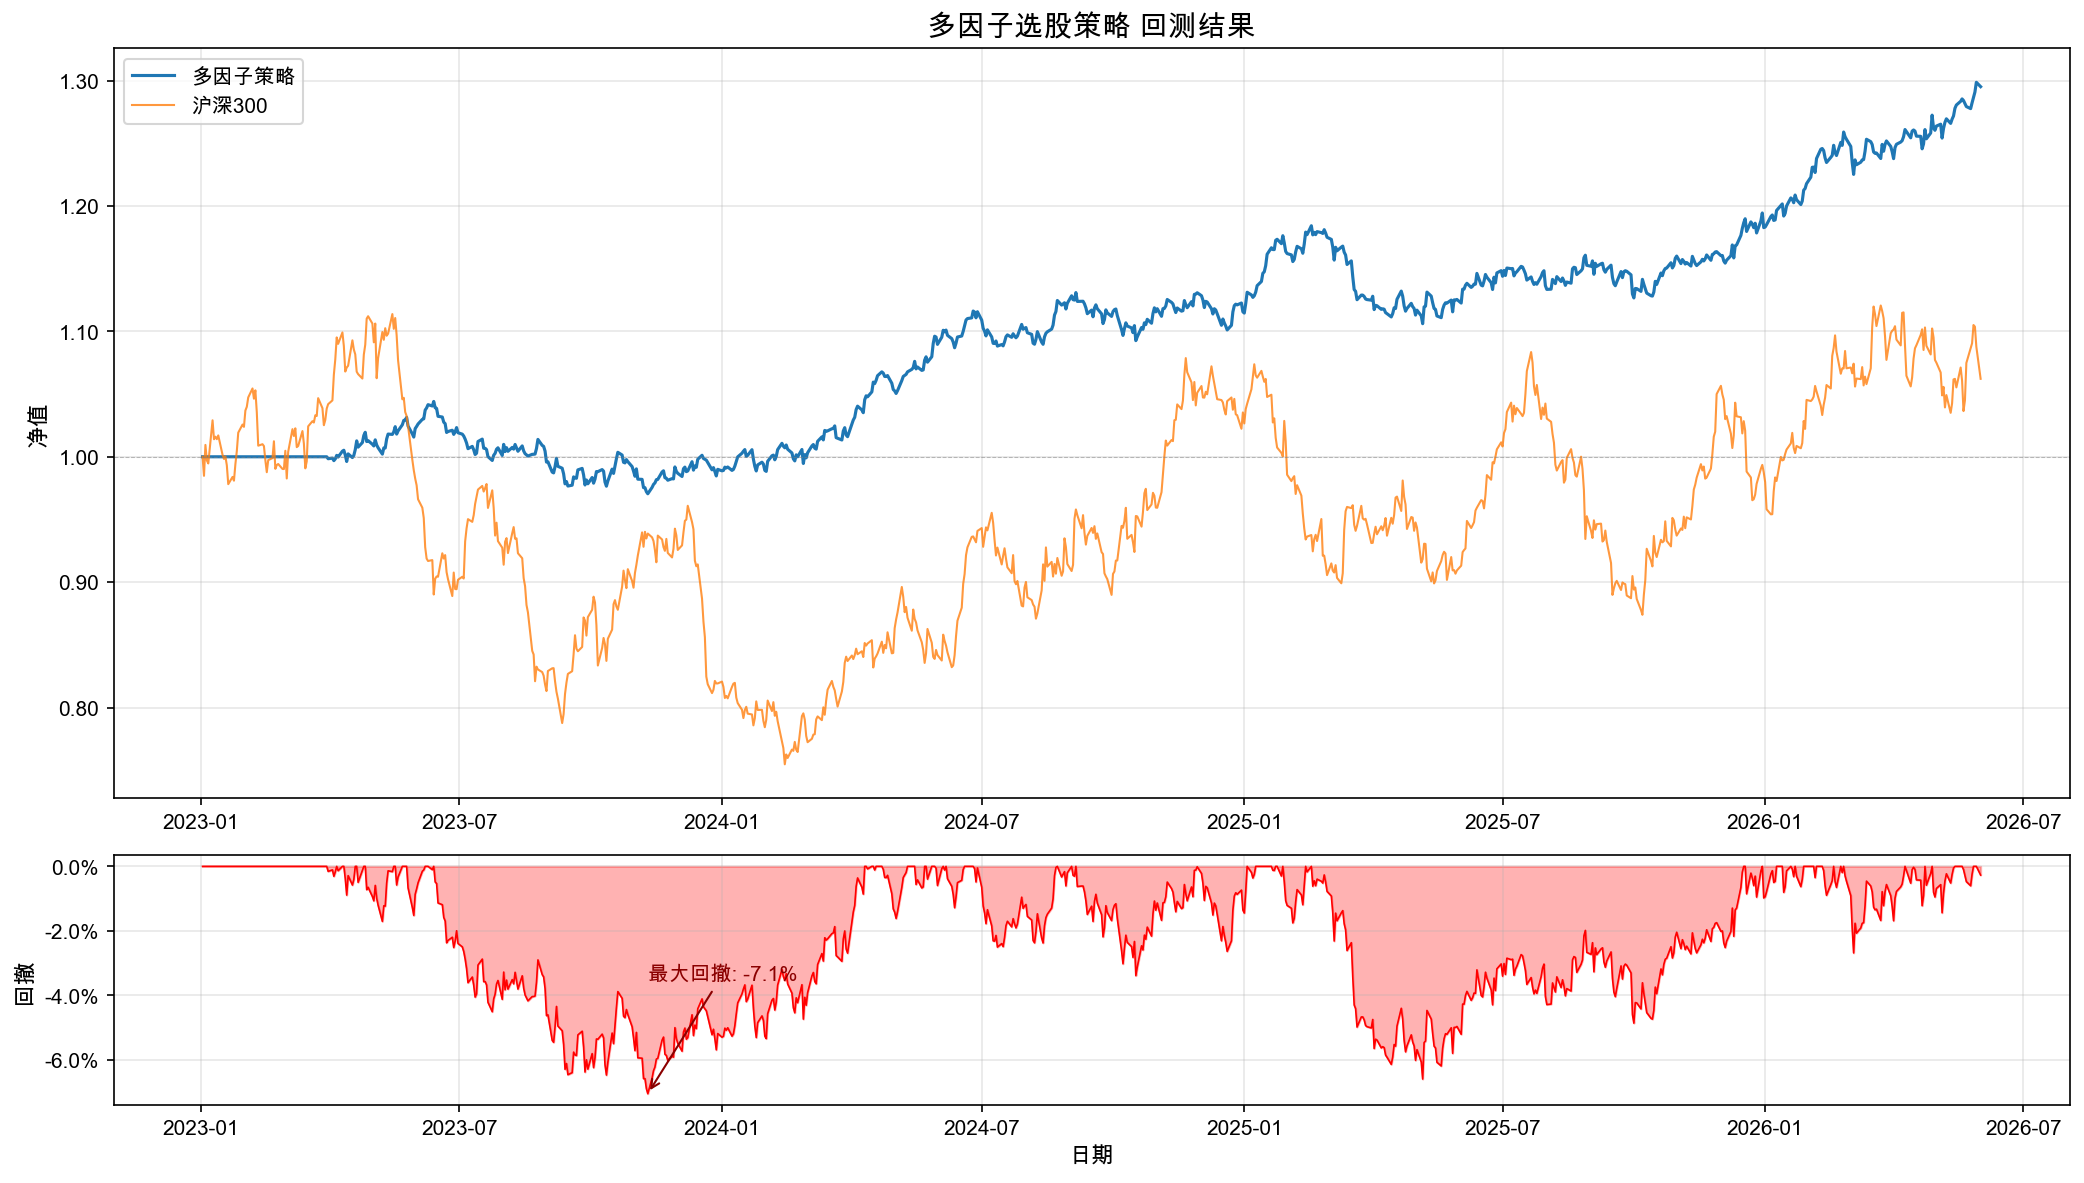
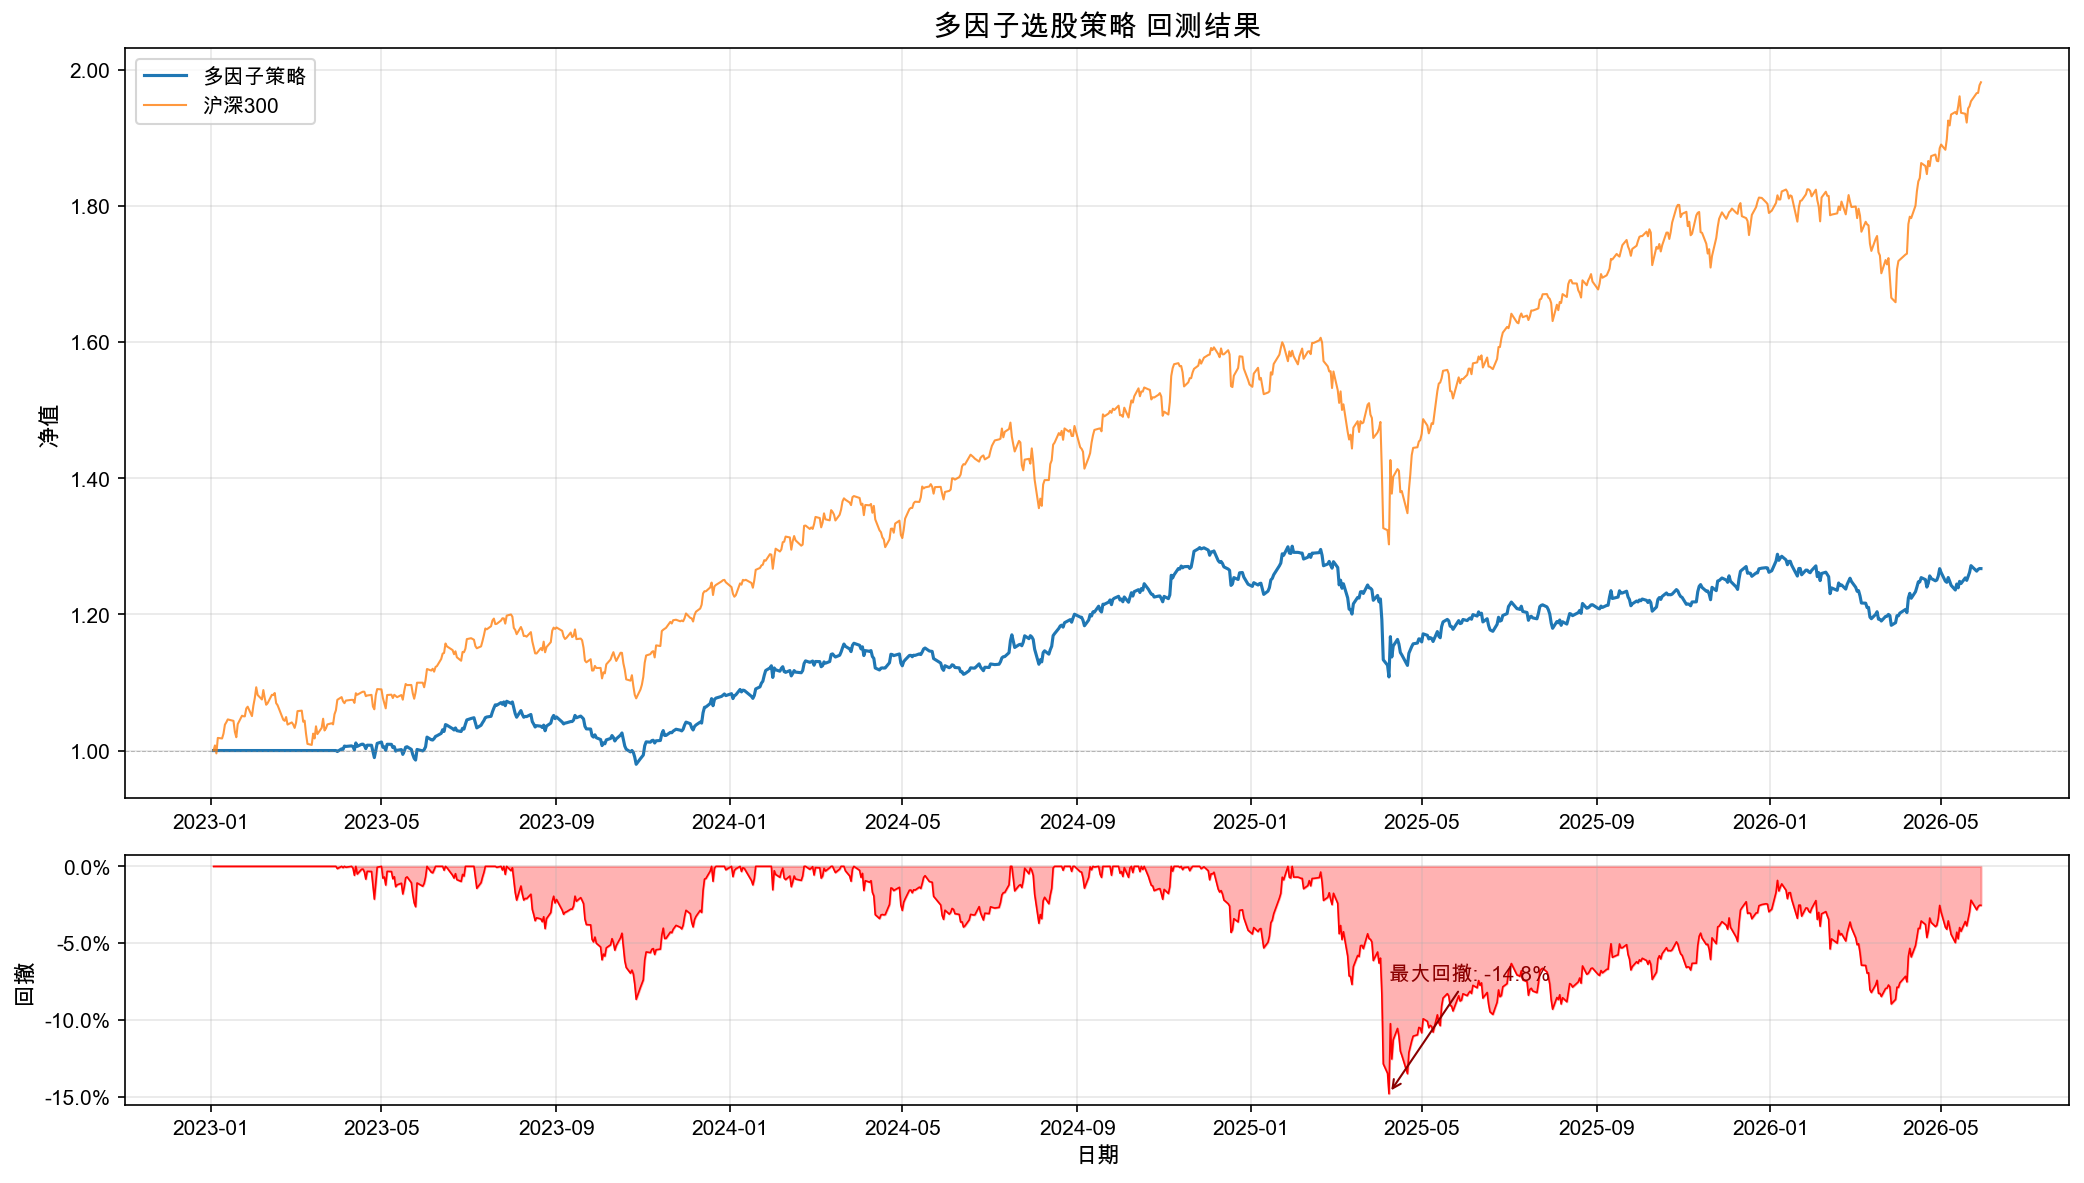
feat: 美股数据源 + 网络兼容修复

diff --git a/main.py b/main.py
@@ -2,49 +2,62 @@
 多因子选股回测 —— 主入口
 
 用法:
-    python main.py           # 真实数据回测（需要 A 股网络环境）
-    python main.py --fake    # 模拟数据（任何环境都能跑，验证逻辑）
-    python main.py --quick   # 快速模式（50只股票，验证流程）
+    python main.py           # A股真实数据（需要东方财富网络）
+    python main.py --us      # 美股真实数据（标普500，全球能用）
+    python main.py --fake    # 模拟数据（不需要网络，验证逻辑）
+    python main.py --quick   # 快速模式（50只股票）
+    可以组合：python main.py --us --quick
 """
 
 import argparse
 import time
-import traceback
 
 from data_loader import (
+    # A股
     get_stock_pool, get_all_stocks_data, get_benchmark_data,
+    # 美股
+    get_us_stock_pool, get_all_us_stocks_data, get_us_benchmark,
+    # 模拟
     generate_fake_data,
 )
 from backtest import backtest
 from analysis import calculate_stats, plot_results
 
 
-def main(quick: bool = False, fake: bool = False):
+def main(quick: bool = False, fake: bool = False, us: bool = False):
     t0 = time.time()
+    pool_size = 50 if quick else 100  # 美股100只，A股300只
+    if not us:
+        pool_size = 50 if quick else 300
 
     # ============================================================
-    # 1. 获取股票池
+    # 1. 获取数据
     # ============================================================
-    pool_size = 50 if quick else 300
-
     if fake:
-        print("[Main] 使用模拟数据模式（用于测试回测逻辑）")
-        stock_data, benchmark = generate_fake_data(
-            n_stocks=pool_size, seed=42
-        )
+        print("[Main] 模拟数据模式")
+        stock_data, benchmark = generate_fake_data(n_stocks=pool_size, seed=42)
+
+    elif us:
+        print("[Main] 美股数据模式（yfinance → 标普500）")
+        try:
+            tickers = get_us_stock_pool(top_n=pool_size)
+            stock_data = get_all_us_stocks_data(tickers)
+            benchmark = get_us_benchmark()
+        except Exception as e:
+            print(f"\n[Main] ⚠ 美股数据获取失败: {e}")
+            print("[Main] 自动切换到模拟数据...")
+            stock_data, benchmark = generate_fake_data(n_stocks=pool_size, seed=42)
+
     else:
+        print("[Main] A股数据模式（AkShare → 沪深300）")
         try:
             stocks = get_stock_pool(top_n=pool_size)
             stock_data = get_all_stocks_data(stocks)
             benchmark = get_benchmark_data()
         except Exception as e:
-            print(f"\n[Main] ⚠ 真实数据获取失败: {e}")
-            print(f"[Main] 自动切换到模拟数据模式...\n")
-            print("[Main] 提示: 如果你在北京，一般直接跑就行，AkShare 能访问东方财富。")
-            print("[Main] 如果在海外/网络受限，就用 python main.py --fake\n")
-            stock_data, benchmark = generate_fake_data(
-                n_stocks=pool_size, seed=42
-            )
+            print(f"\n[Main] ⚠ A股数据获取失败: {e}")
+            print("[Main] 自动切换到模拟数据...")
+            stock_data, benchmark = generate_fake_data(n_stocks=pool_size, seed=42)
 
     if len(stock_data) < 20:
         print("[Error] 有效股票数不足。")
@@ -53,18 +66,17 @@ def main(quick: bool = False, fake: bool = False):
     # ============================================================
     # 2. 运行回测
     # ============================================================
-    print(f"\n[Main] 开始回测...")
+    print(f"\n[Main] 开始回测（{len(stock_data)} 只股票）...")
     result = backtest(stock_data, benchmark)
     nav = result["nav"]
     trades = result["trades"]
 
     # ============================================================
-    # 3. 计算绩效 & 可视化
+    # 3. 绩效 & 可视化
     # ============================================================
     stats = calculate_stats(nav)
     plot_results(nav, stats, save_path="backtest_result.png")
 
-    # 打印最近几期调仓记录
     if len(trades) > 0:
         print(f"\n{'='*70}")
         print(f"  最近 5 期调仓记录")
@@ -77,19 +89,21 @@ def main(quick: bool = False, fake: bool = False):
     print(f"\n[Total] 总耗时: {elapsed:.1f}s")
 
     # ============================================================
-    # 4. 保存结果
+    # 4. 保存
     # ============================================================
     nav.to_csv("backtest_nav.csv")
     trades.to_csv("backtest_trades.csv", index=False)
-    print("[Total] 净值数据已保存至 backtest_nav.csv")
-    print("[Total] 调仓记录已保存至 backtest_trades.csv")
+    print("[Total] 净值 → backtest_nav.csv")
+    print("[Total] 调仓 → backtest_trades.csv")
 
 
 if __name__ == "__main__":
     parser = argparse.ArgumentParser(description="多因子选股回测系统")
     parser.add_argument("--quick", action="store_true",
-                        help="快速模式：只用50只股票验证流程")
+                        help="快速模式：减少股票数量，跑得快")
     parser.add_argument("--fake", action="store_true",
-                        help="使用模拟数据（不需要网络，只验证逻辑）")
+                        help="模拟数据（不联网也能跑）")
+    parser.add_argument("--us", action="store_true",
+                        help="美股模式（标普500，yfinance数据源）")
     args = parser.parse_args()
-    main(quick=args.quick, fake=args.fake)
+    main(quick=args.quick, fake=args.fake, us=args.us)

diff --git a/data_loader.py b/data_loader.py
@@ -269,3 +269,143 @@ def generate_fake_data(
 
     print(f"[FakeData] 生成完成，{len(stock_data)} 只股票，基准 {len(benchmark)} 行")
     return stock_data, benchmark
+
+
+# ============================================================
+# 美股数据（yfinance，全球都能用）
+# ============================================================
+
+try:
+    import yfinance as yf
+    HAS_YFINANCE = True
+except ImportError:
+    HAS_YFINANCE = False
+
+
+def get_us_stock_pool(top_n: int = 100) -> list[str]:
+    """
+    获取美股股票池：标普500成分股，按市值取前 top_n。
+    """
+    print(f"[Data] 获取标普500成分股（取前 {top_n}）...")
+    try:
+        # 从 Wikipedia 获取标普500成分股
+        sp500 = pd.read_html("https://en.wikipedia.org/wiki/List_of_S%26P_500_companies")[0]
+        tickers = sp500["Symbol"].tolist()
+        # 取前 top_n
+        tickers = tickers[:top_n]
+        print(f"[Data] 美股股票池: {len(tickers)} 只")
+        return tickers
+    except Exception:
+        # 降级：手动指定一些大市值美股
+        fallback = [
+            "AAPL", "MSFT", "GOOGL", "AMZN", "NVDA", "META", "TSLA", "BRK-B",
+            "JPM", "V", "JNJ", "WMT", "PG", "MA", "UNH", "HD", "BAC", "DIS",
+            "ADBE", "NFLX", "CRM", "AMD", "INTC", "QCOM", "TXN", "PYPL", "CSCO",
+            "CMCSA", "PEP", "COST", "ABT", "CVX", "WFC", "MRK", "ABBV", "AVGO",
+            "ORCL", "ACN", "TMO", "NKE", "DHR", "LLY", "PM", "UPS", "MS", "GS",
+            "BLK", "CAT", "AXP", "SPGI", "T", "VZ",
+        ]
+        print(f"[Data] 降级使用预设列表: {len(fallback)} 只")
+        return fallback[:top_n]
+
+
+def get_us_stock_daily(symbol: str, start: str = START_DATE, end: str = END_DATE) -> pd.DataFrame | None:
+    """
+    用 yfinance 获取单只美股日线数据。
+
+    返回统一的 DataFrame 格式（和 A 股接口一致）。
+    """
+    cache_path = os.path.join(DATA_CACHE_DIR, f"us_{symbol}.csv")
+    if os.path.exists(cache_path):
+        df = pd.read_csv(cache_path, parse_dates=["date"])
+        return df
+
+    # 日期格式转换: YYYYMMDD → YYYY-MM-DD
+    start_fmt = f"{start[:4]}-{start[4:6]}-{start[6:8]}"
+    end_fmt = f"{end[:4]}-{end[4:6]}-{end[6:8]}"
+
+    try:
+        ticker = yf.Ticker(symbol)
+        df = ticker.history(start=start_fmt, end=end_fmt)
+
+        if df.empty:
+            return None
+
+        # 统一列名（yfinance 不同版本列名大小写不同，先全转小写）
+        df = df.reset_index()  # Date index → column
+        df.columns = [c.lower() for c in df.columns]
+
+        # 重命名标准列
+        col_map = {
+            "open": "open", "high": "high", "low": "low",
+            "close": "close", "volume": "volume", "date": "date",
+        }
+        df = df.rename(columns=col_map)
+
+        # 计算缺失列
+        if "amount" not in df.columns or df["amount"].isna().all():
+            df["amount"] = df["close"] * df["volume"]
+        # 美股换手率：用 20 日均量 / 总股本（粗略估计，用成交量相对变化代替）
+        if "turnover" not in df.columns or df["turnover"].isna().all():
+            avg_vol = df["volume"].rolling(20).mean()
+            df["turnover"] = (df["volume"] / avg_vol.replace(0, np.nan)).fillna(1.0) * 2.0  # 缩放到合理范围
+        if "change_pct" not in df.columns or df["change_pct"].isna().all():
+            df["change_pct"] = df["close"].pct_change() * 100
+
+        df["date"] = pd.to_datetime(df["date"]).dt.tz_localize(None)
+
+        # 保留标准列
+        cols = ["date", "open", "high", "low", "close",
+                "volume", "amount", "turnover", "change_pct"]
+        df = df[[c for c in cols if c in df.columns]]
+
+        df.to_csv(cache_path, index=False)
+        return df
+
+    except Exception as e:
+        print(f"  ⚠ 获取 {symbol} 失败: {e}")
+        return None
+
+
+def get_all_us_stocks_data(tickers: list[str]) -> dict[str, pd.DataFrame]:
+    """批量获取美股数据"""
+    ensure_cache_dir()
+    result = {}
+    total = len(tickers)
+    print(f"[Data] 下载 {total} 只美股日线数据（{START_DATE} ~ {END_DATE}）...")
+
+    for i, sym in enumerate(tickers):
+        df = get_us_stock_daily(sym)
+        if df is not None and len(df) > 100:
+            result[sym] = df
+        if (i + 1) % max(1, total // 10) == 0:
+            print(f"  ... {i+1}/{total} (有效 {len(result)})")
+
+    print(f"[Data] 美股数据下载完成: {len(result)} 只有效股票")
+    return result
+
+
+def get_us_benchmark(start: str = START_DATE, end: str = END_DATE) -> pd.DataFrame:
+    """获取标普500指数作为基准"""
+    cache_path = os.path.join(DATA_CACHE_DIR, "benchmark_sp500.csv")
+    if os.path.exists(cache_path):
+        return pd.read_csv(cache_path, parse_dates=["date"])
+
+    start_fmt = f"{start[:4]}-{start[4:6]}-{start[6:8]}"
+    end_fmt = f"{end[:4]}-{end[4:6]}-{end[6:8]}"
+
+    try:
+        sp500 = yf.Ticker("^GSPC")
+        df = sp500.history(start=start_fmt, end=end_fmt)
+        if df.empty:
+            return None
+        df = df.reset_index()
+        df.columns = [c.lower() for c in df.columns]
+        df["date"] = pd.to_datetime(df["date"]).dt.tz_localize(None)
+        df = df[["date", "close"]]
+        df.to_csv(cache_path, index=False)
+        print(f"[Data] 标普500基准: {len(df)} 个交易日")
+        return df
+    except Exception as e:
+        print(f"[Data] ⚠ 获取标普500失败: {e}")
+        return None
